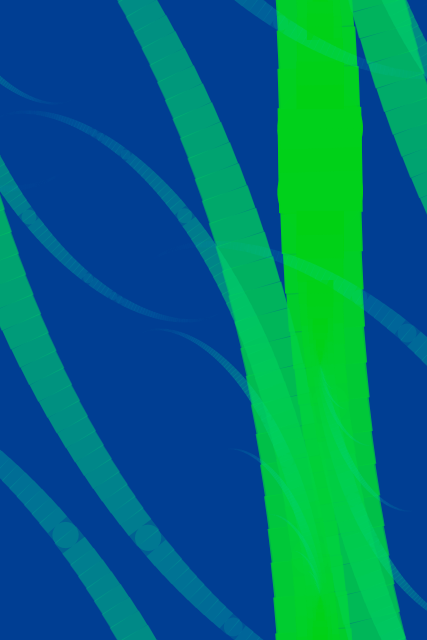
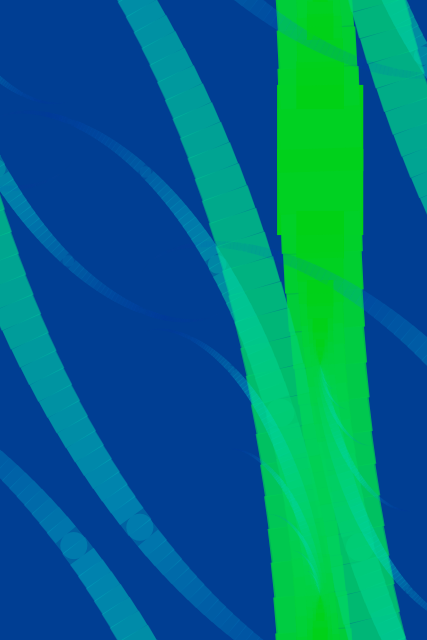
finished context-free.md, tweaked context free program, edited formatting of my-dsl.md

diff --git a/my-dsl.md b/my-dsl.md
@@ -1,40 +1,48 @@
 # Language
 _What is the name of the language? Link the name to its webpage 
 (if appropriate)._
+
 SQL
 [Link for the reference page of the Oracle implementation of it.](http://docs.oracle.com/cd/B19306_01/server.102/b14200/toc.htm "Oracle SQL reference")
 
 # Domain
 _Describe the language's domain in five words._
+
 Queries and maintains relational databases
 
 # Computational model
 _What is the underlying computational model of this language? To answer this 
 question, provide a high-level description (no more than 100 words) of the 
 computation that occurs when someone executes a program in this language._
+
 The SQL statement is parsed into instructions the database engine can understand. While parsing, it also figures out the best way to execute the query. Then, that information is passed on so that the appropriate rows in the database can be fetched or updated
 
 # DSL-ness
 _Fowler writes about a spectrum of languages, from general-purpose languages to 
 "purely" domain-specific. Where does the DSL you chose fall on this spectrum, 
 and why?_ 
+
 It is closer to "purely" domain-specific. It's designed to give instructions to relational databases.
 
 # Internal or external?
 _Is the language implemented as an internal or external DSL? 
 Justify your answer._
+
 It is an external DSL. It has its own syntax and is used within programs written in other languages.
 
 # Host language
 _What language(s) was (were) used to implement the DSL?_
+
 The original DSL was implemented in C.
 
 # Benefits
 _Identify one potential benefit of the DSL: how is a programmer's life or a 
 company's bottom line made easier by the existence of this language?_
+
 It simplifies the process of working with a relational database, which can speed up development of a program.
 
 # Drawbacks
 _Identify one potential drawback of the DSL: what does a programmer or company 
 lose by using this DSL instead of a general-purpose language?_
+
 Though SQL is fairly straight-forward and easy to learn, it could contribute to the "language cacophany" of a program, especially if it is already using several DSLs.

diff --git a/context-free.md b/context-free.md
@@ -2,21 +2,27 @@
 
 ##  Who is this programming language for?
 
+This is for people who want to create digital art through programming.
 
 ## What is easy to do in this language? Why is it easy?
 
+I found it pretty easy to learn the language. The syntax seemed pretty easy to understand, and because I could make small changes to my code and instantly see results, I was quickly able to figure out how things worked.
 
 ## What is hard to do in this language? Why is it hard?
 
+When something wasn't rendering, it wasn't always easy to figure out why. The error messages provided by the GUI were not particularly helpful. The documentation also isn't the most thorough, so some things that should have been easy to figure out took more time than they should have, like changing the color of a shape.
 
 ## How did you learn how to program in this language?
 
+I learned by looking at the official documentation. I also played around with snippets from the documentation and from the example 'WELCOME' message that showed up at startup, tweaking them slightly and seeing what the results were like. 
 
 ## What is the underlying _computational model_ for this programming language? 
 _We don't yet have a great definition of the term "computational model". 
 For now, try to come up with the clearest, most concise explanation of what 
 happens when a ContextFree program runs._
 
+It creates a parse tree based on your program, looking at it like a context-free grammar with circles, squares, and triangles as terminal shapes.
 
 ## What do you think is interesting about the ContextFree program you wrote?
 
+I think one interesting thing is that when drawing a curve, it will usually draw the next segment with a square, but occasionally it will draw a circle. This is decided randomly, though squares are weighted more heavily. Every time it is rendered, there will be a random number of circles in random locations in the lines, so no two renderings from this program are alike.
